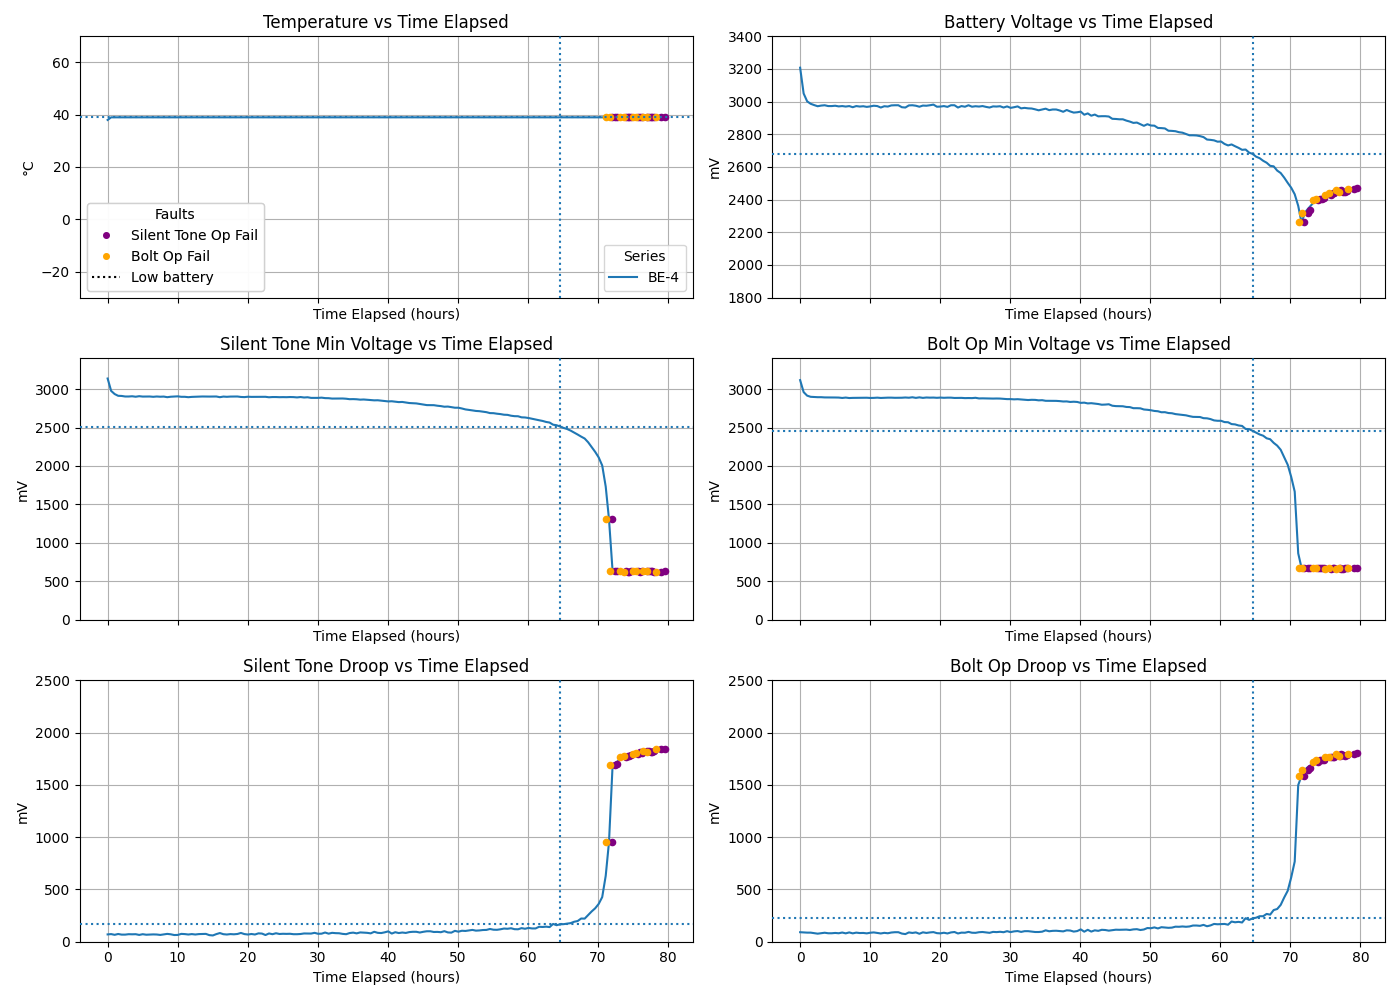
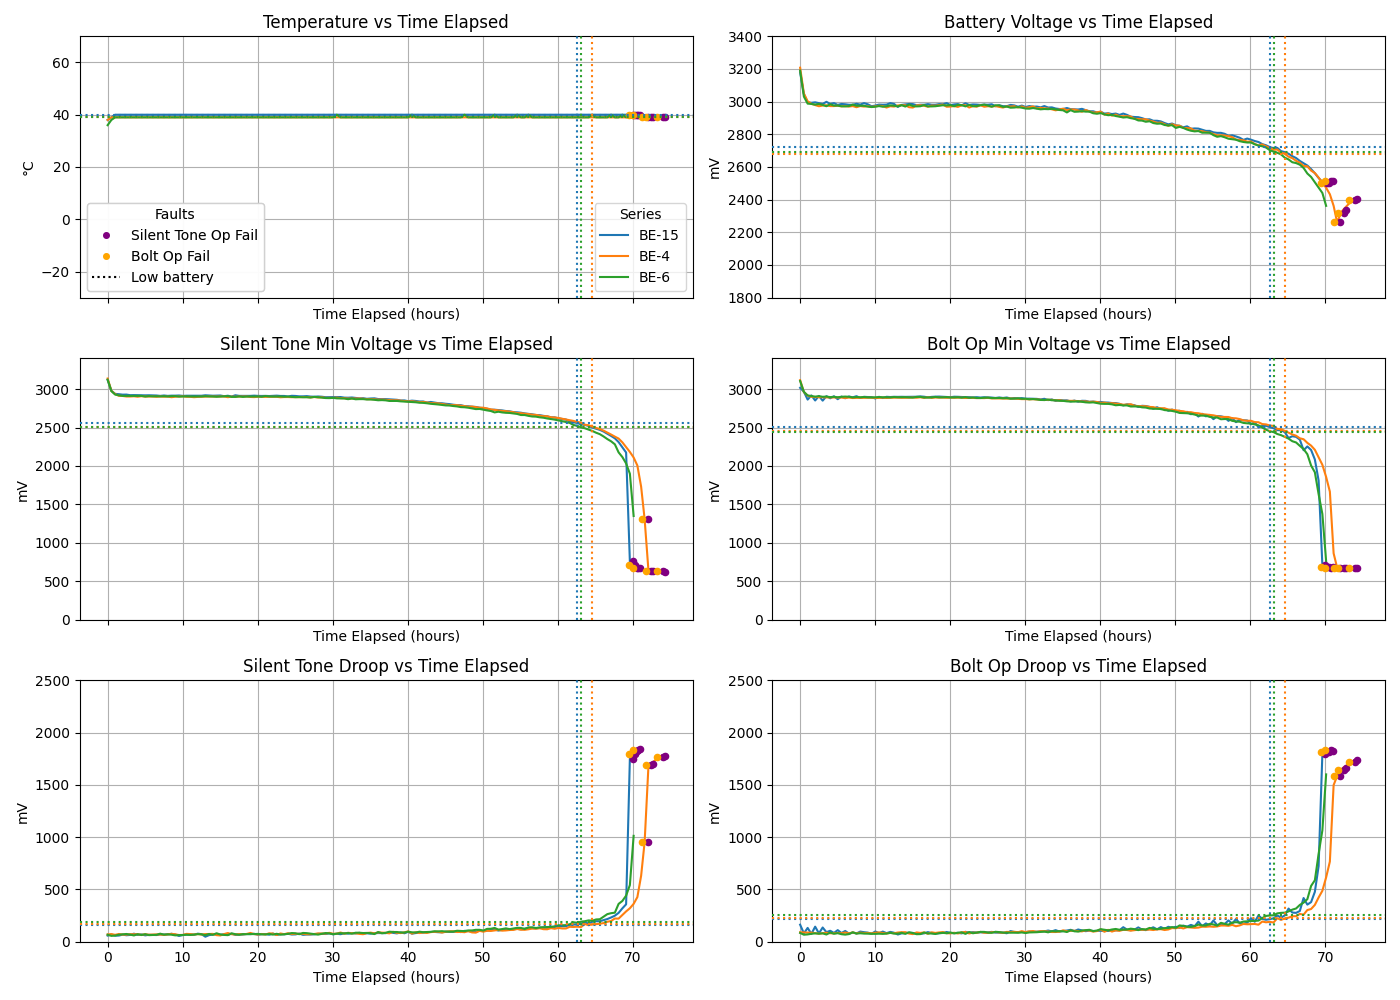
tenergy 40c

diff --git a/plot_folder.py b/plot_folder.py
@@ -6,7 +6,7 @@ import numpy as np  # NEW
 from matplotlib.lines import Line2D
 
 # CONFIGURATION
-CSV_DIR = "csvs/manufacturers-cross-temp/temp-40c/enegitech"
+CSV_DIR = "csvs/manufacturers-cross-temp/temp-40c/tenergy"
 CSV_TAG = os.path.basename(os.path.normpath(CSV_DIR))
 PLOT_OUTPUT = f"plots/compare_all_{CSV_DIR.replace("/", "-")}.png"
 COMPUTE_LOW_BATT_BY_ALL_FAULTS=True
@@ -86,13 +86,15 @@ for csv_path in csv_files:
                 t_target = t_fault - 0.10 * hours_to_fault
                 idx_low_batt = (t_series - t_target).abs().idxmin()
             else:
-                # No faults after first 10%, use last index
-                idx_low_batt = df.index[-1]
-                idx_first_fault = idx_low_batt
+                # No faults after first 10%, use 10% from end for low battery
+                n_rows = len(df)
+                idx_low_batt = df.index[int(np.floor(0.90 * n_rows))]
+                idx_first_fault = df.index[-1]
         else:
-            # No faults at all, use last index
-            idx_low_batt = df.index[-1]
-            idx_first_fault = idx_low_batt
+            # No faults at all, use 10% from end for low battery
+            n_rows = len(df)
+            idx_low_batt = df.index[int(np.floor(0.90 * n_rows))]
+            idx_first_fault = df.index[-1]
 
         trim_idx = idx_first_fault + 5
         if trim_idx < len(df):
